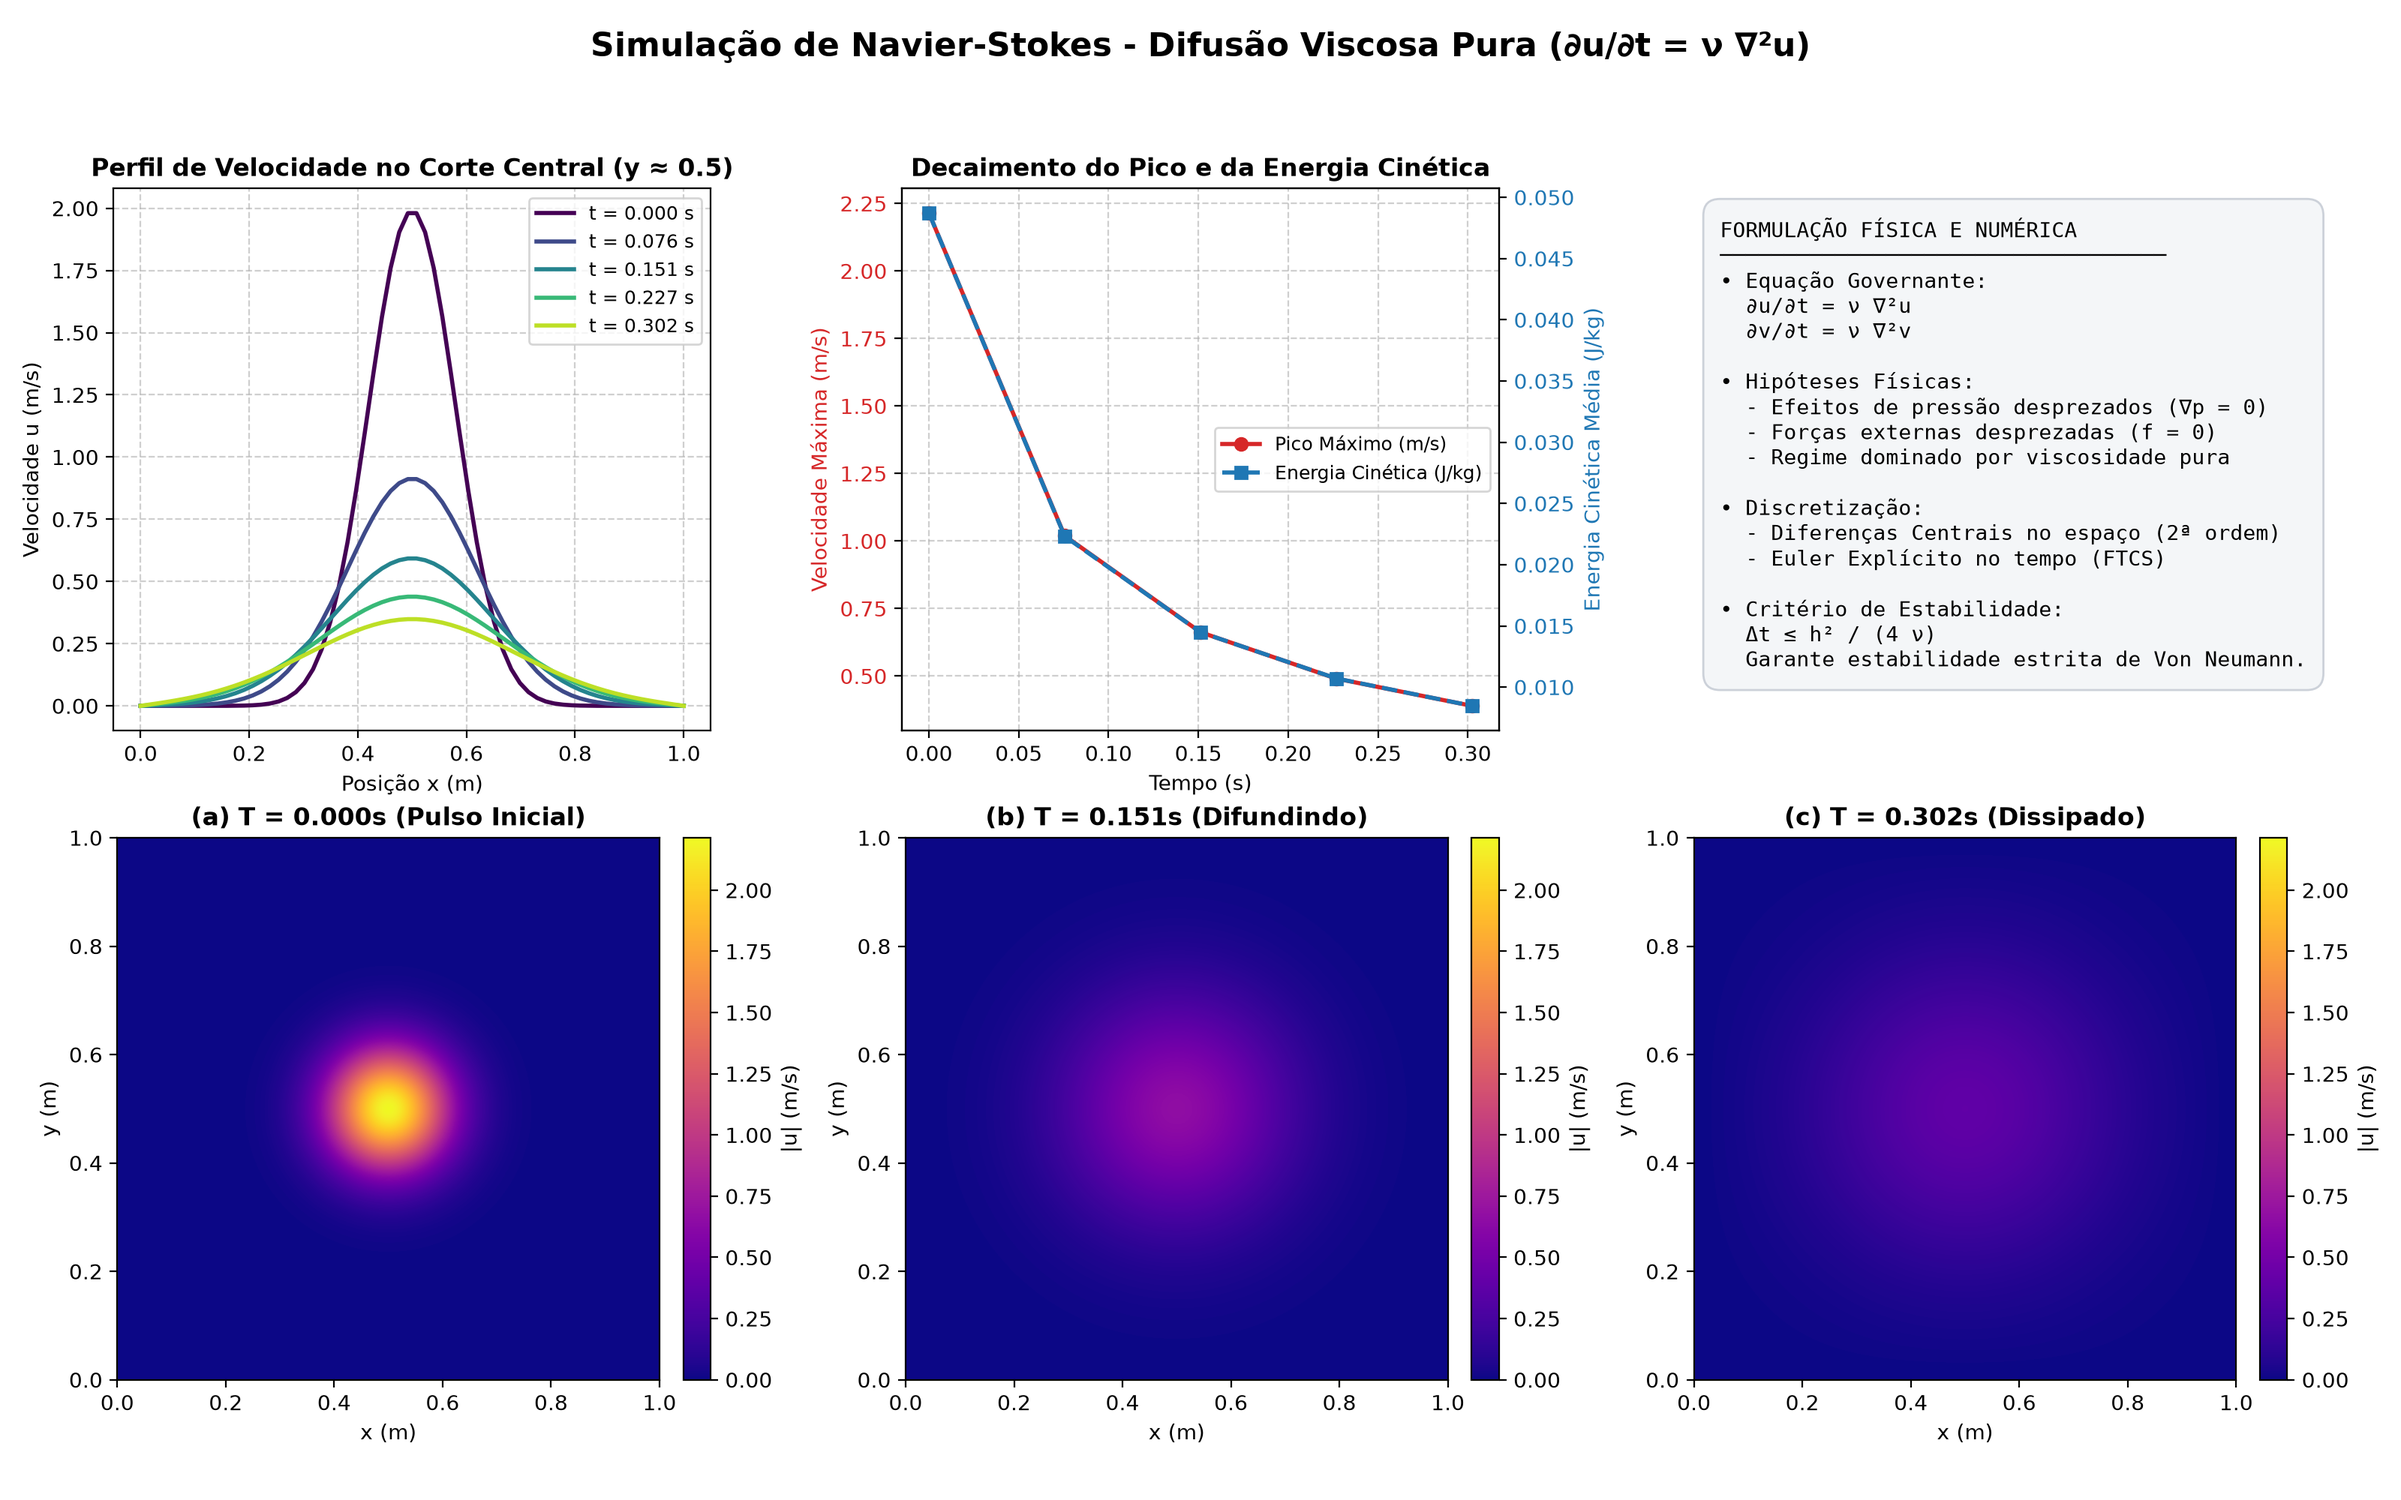
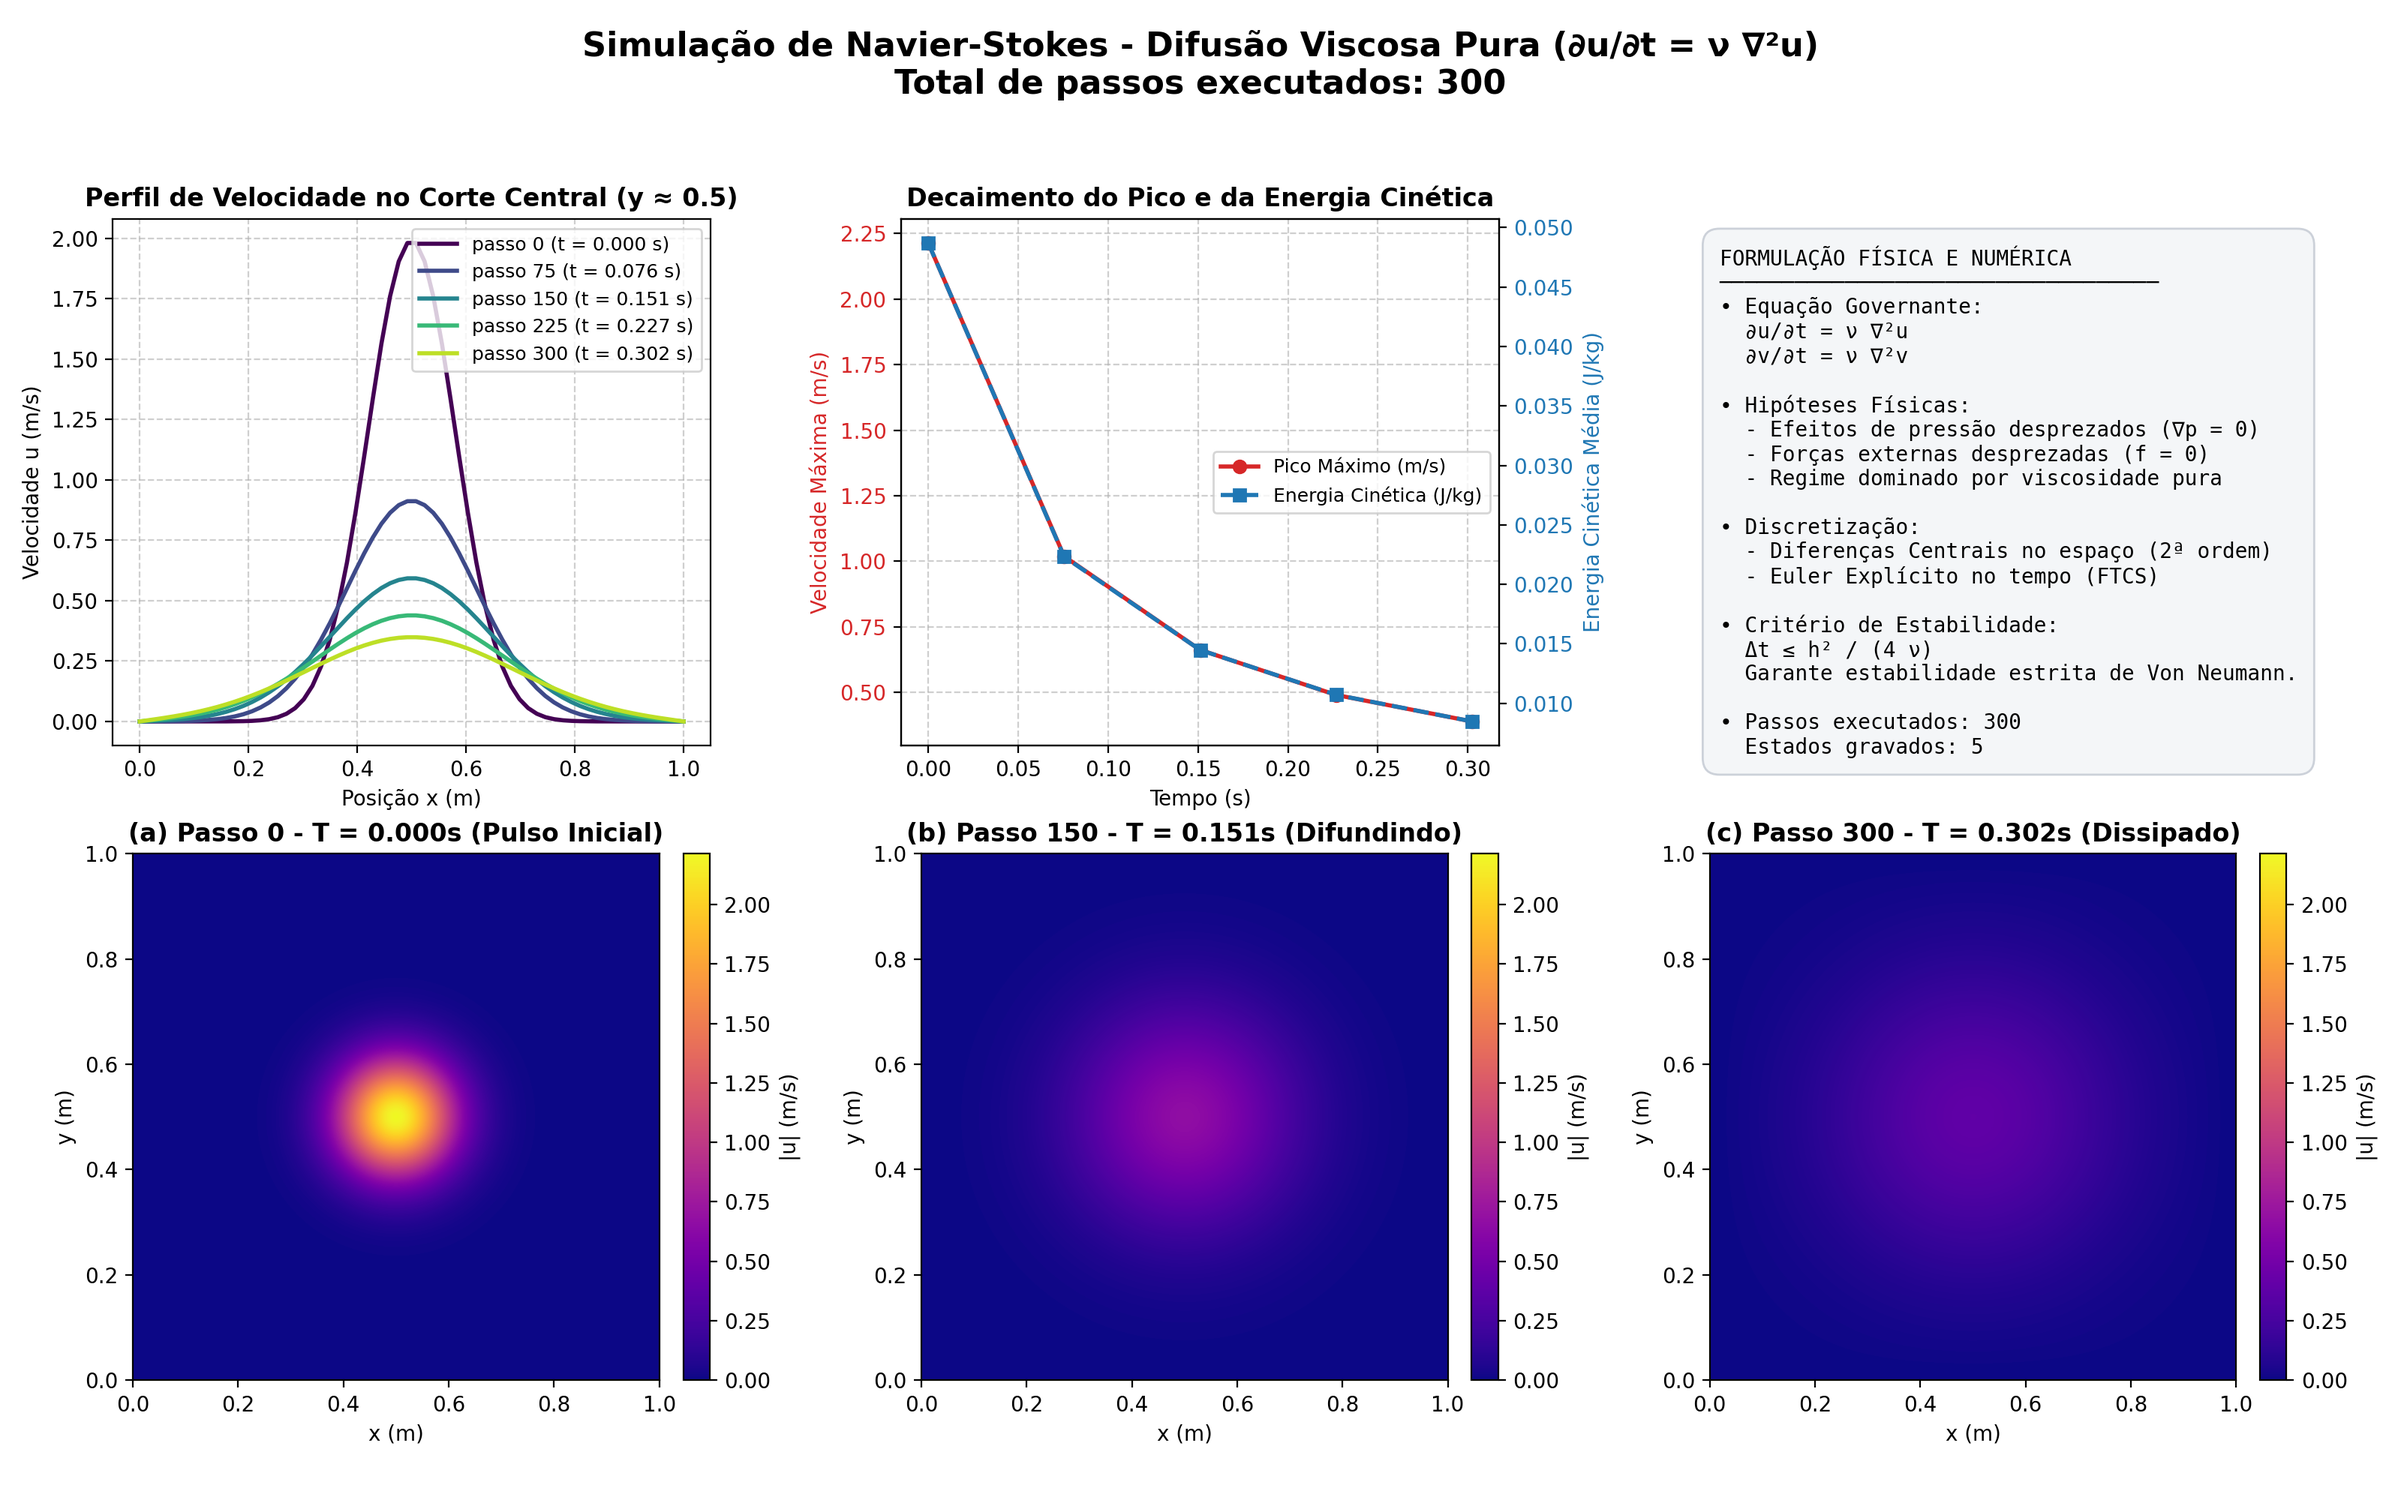
feat: reorganizar relatórios

diff --git a/tarefa11/navier_stokes/visualizar.py b/tarefa11/navier_stokes/visualizar.py
@@ -13,7 +13,9 @@ Uso:
 
 import sys
 import os
-import math
+import matplotlib
+import matplotlib.pyplot as plt
+import numpy as np
 
 def gerar_graficos(csv_path="difusao_simulacao.csv", saida_png="evolucao_difusao.png"):
     if not os.path.exists(csv_path):
@@ -23,10 +25,8 @@ def gerar_graficos(csv_path="difusao_simulacao.csv", saida_png="evolucao_difusao
         return 1
 
     try:
-        import matplotlib
         matplotlib.use("Agg")  # Backend sem interface gráfica (headless)
-        import matplotlib.pyplot as plt
-        import numpy as np
+        
     except ImportError:
         print("Aviso: 'matplotlib' ou 'numpy' nao estao instalados.")
         print("Instale-os com: pip install matplotlib numpy")
@@ -75,10 +75,13 @@ def gerar_graficos(csv_path="difusao_simulacao.csv", saida_png="evolucao_difusao
         print("Erro: Nenhum dado valido encontrado no CSV.")
         return 1
 
-    print(f"Encontrados {len(passos_ordenados)} passos gravados: {passos_ordenados}")
+    passo_final = max(passos_ordenados)
+    print(f"Encontrados {len(passos_ordenados)} estados gravados: {passos_ordenados}")
+    print(f"Quantidade total de passos executados: {passo_final}")
 
     fig = plt.figure(figsize=(16, 10))
-    fig.suptitle("Simulação de Navier-Stokes - Difusão Viscosa Pura (∂u/∂t = ν ∇²u)",
+    fig.suptitle("Simulação de Navier-Stokes - Difusão Viscosa Pura (∂u/∂t = ν ∇²u)\n"
+                 f"Total de passos executados: {passo_final}",
                  fontsize=16, fontweight="bold", y=0.98)
 
     # 1. Gráfico de corte central (y próximo de 0.5)
@@ -103,7 +106,8 @@ def gerar_graficos(csv_path="difusao_simulacao.csv", saida_png="evolucao_difusao
             x_corte = xs[filtro_meio]
             u_corte = us[filtro_meio]
             ordem = np.argsort(x_corte)
-            ax1.plot(x_corte[ordem], u_corte[ordem], label=f"t = {d['tempo']:.3f} s",
+            ax1.plot(x_corte[ordem], u_corte[ordem],
+                     label=f"passo {p} (t = {d['tempo']:.3f} s)",
                      color=cores[i], linewidth=2.0)
 
     ax1.legend(loc="upper right", fontsize=9)
@@ -149,16 +153,25 @@ def gerar_graficos(csv_path="difusao_simulacao.csv", saida_png="evolucao_difusao
         "  - Euler Explícito no tempo (FTCS)\n\n"
         "• Critério de Estabilidade:\n"
         "  Δt ≤ h² / (4 ν)\n"
-        "  Garante estabilidade estrita de Von Neumann."
+        "  Garante estabilidade estrita de Von Neumann.\n\n"
+        f"• Passos executados: {passo_final}\n"
+        f"  Estados gravados: {len(passos_ordenados)}"
     )
-    ax3.text(0.05, 0.95, texto_teoria, fontsize=10, verticalalignment="top",
-             family="monospace", bbox=dict(boxstyle="round,pad=0.8", facecolor="#f4f6f8", edgecolor="#ccd1d9"))
+    ax3.text(
+        0.05, 
+        0.95,
+        texto_teoria, 
+        fontsize=10, 
+        verticalalignment="top",
+        family="monospace", 
+        bbox=dict(boxstyle="round,pad=0.8", facecolor="#f4f6f8", edgecolor="#ccd1d9")
+    )
 
     # Mapas de calor 2D para 3 instantes representativos
     instantes_idx = [0, len(passos_ordenados)//2, len(passos_ordenados)-1]
-    titulos_mapa = ["(a) T = 0.000s (Pulso Inicial)",
-                    f"(b) T = {dados_por_passo[passos_ordenados[instantes_idx[1]]]['tempo']:.3f}s (Difundindo)",
-                    f"(c) T = {dados_por_passo[passos_ordenados[instantes_idx[2]]]['tempo']:.3f}s (Dissipado)"]
+    titulos_mapa = [f"(a) Passo {passos_ordenados[instantes_idx[0]]} - T = 0.000s (Pulso Inicial)",
+                    f"(b) Passo {passos_ordenados[instantes_idx[1]]} - T = {dados_por_passo[passos_ordenados[instantes_idx[1]]]['tempo']:.3f}s (Difundindo)",
+                    f"(c) Passo {passos_ordenados[instantes_idx[2]]} - T = {dados_por_passo[passos_ordenados[instantes_idx[2]]]['tempo']:.3f}s (Dissipado)"]
 
     vmax_global = np.max(dados_por_passo[passos_ordenados[0]]["mag"])
 
